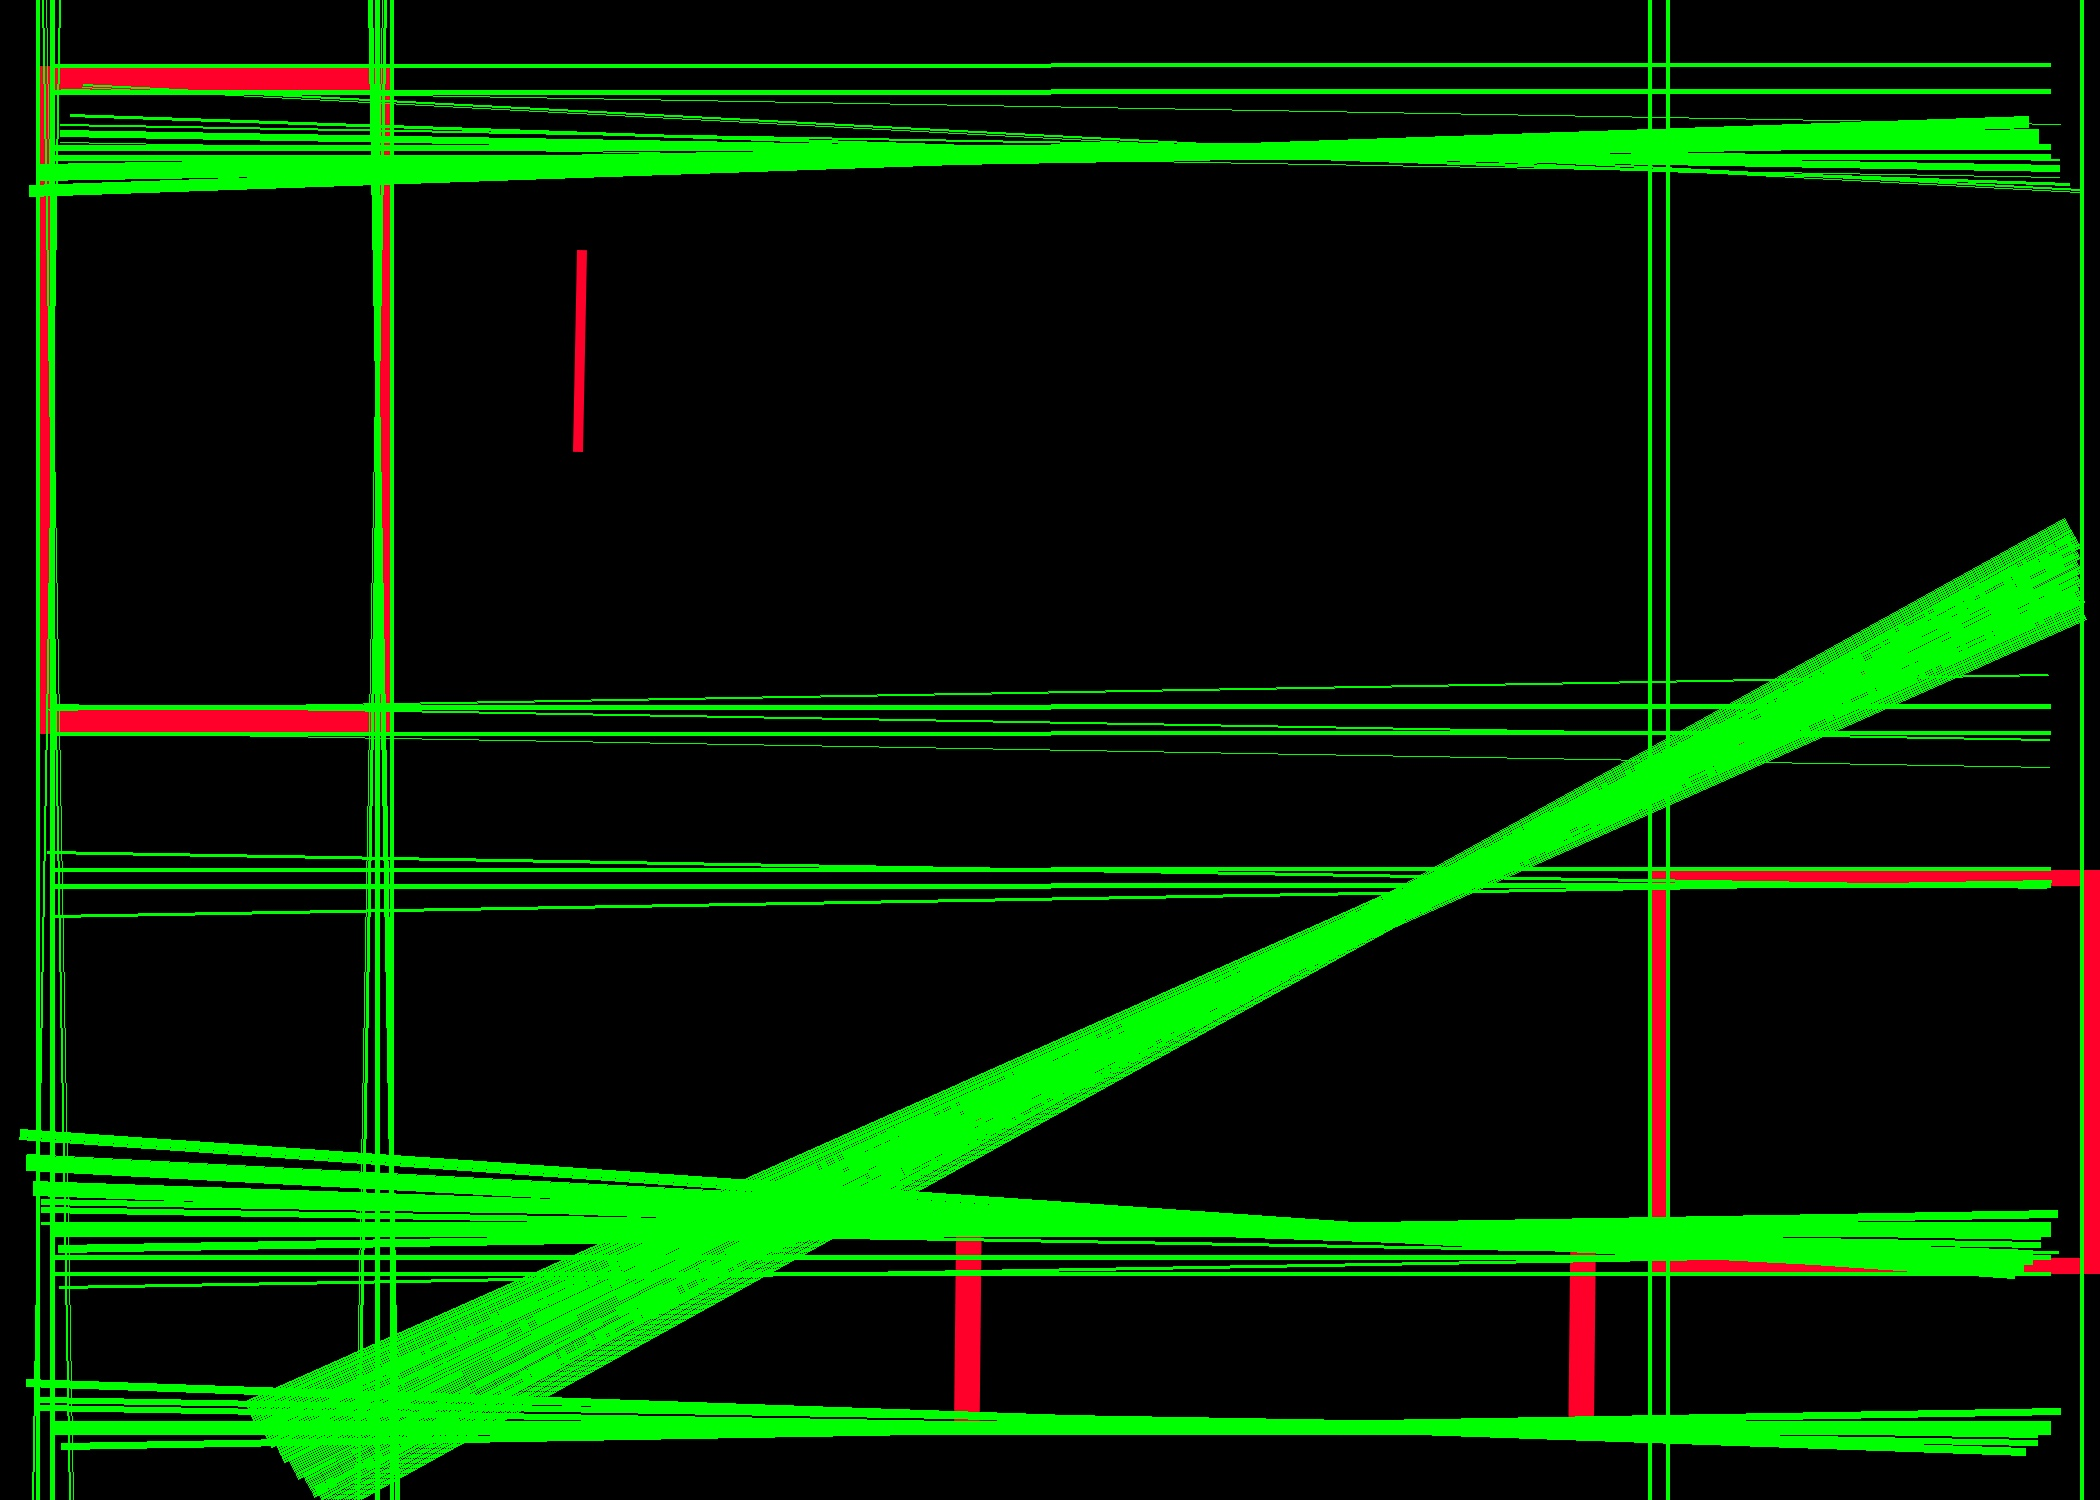
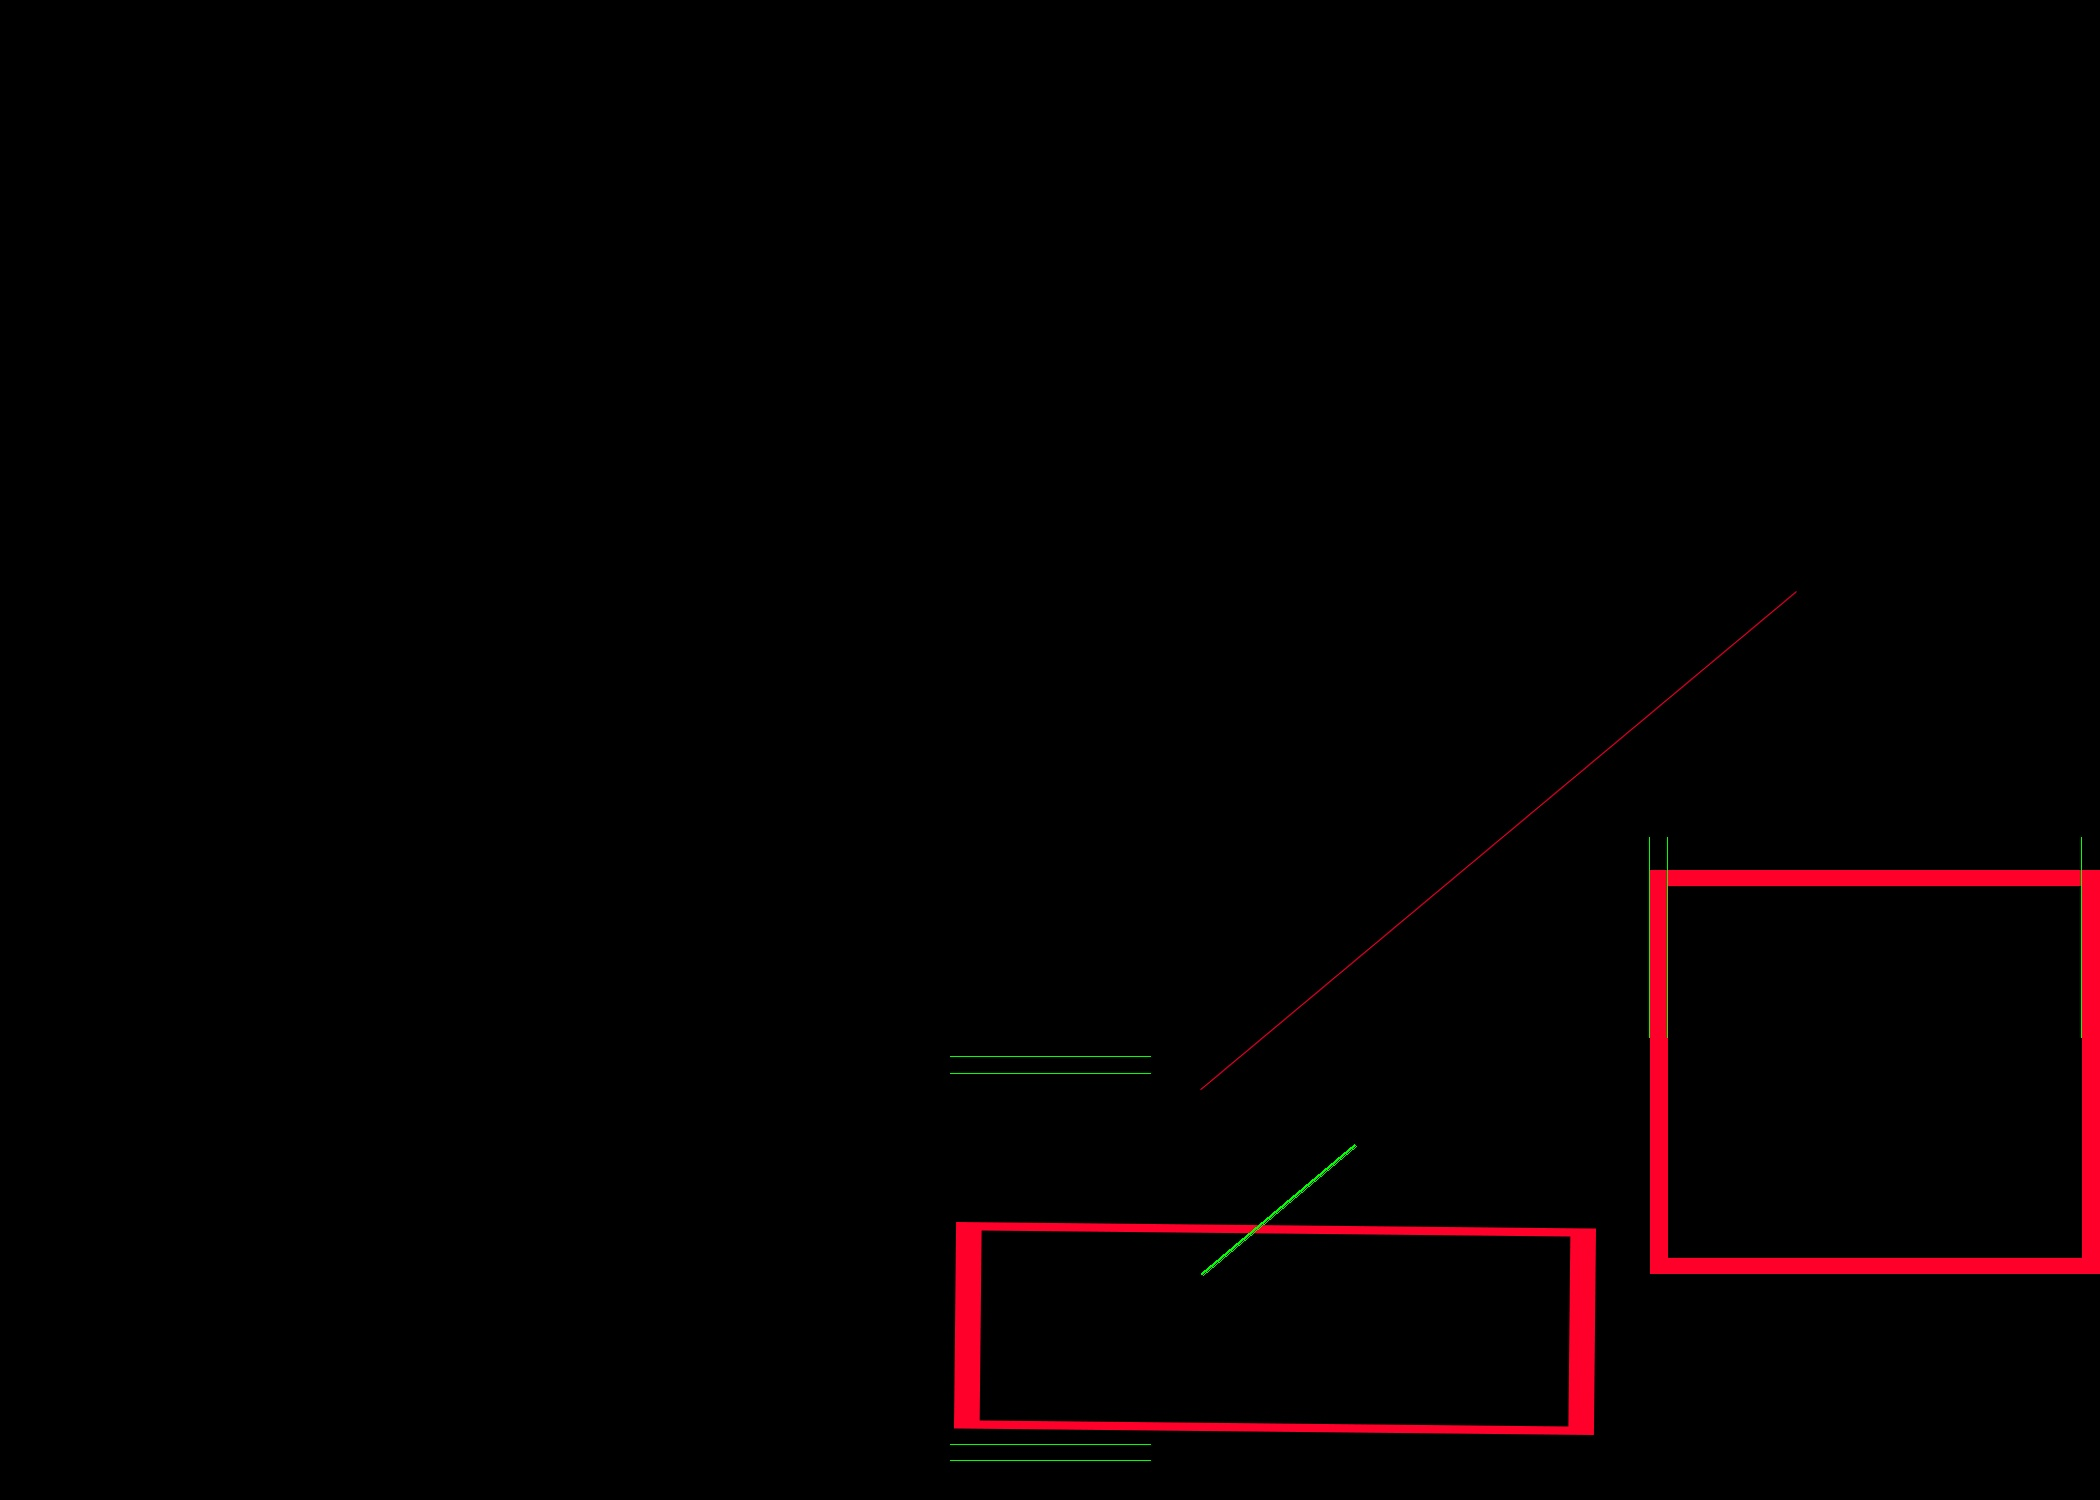
tried canny filter

Changed region(s): [[0.0, 0.0, 1.0, 1.0], [0.2476, 0.184, 0.2786, 0.3067]]

diff --git a/coursework/darts_hough.cpp b/coursework/darts_hough.cpp
@@ -60,6 +60,7 @@ void detectAndDisplay( Mat frame )
     Mat sobel_y;
     Mat sobel_x_converted;
     Mat sobel_y_converted;
+    Mat frame_canny;
     GaussianBlur(frame, frame_gaussian, Size(3, 3), 0, 0, BORDER_DEFAULT);
     cvtColor( frame_gaussian, frame_gray, CV_BGR2GRAY );
     Sobel(frame_gray,sobel_x,CV_16S,1,0,3,1,0,BORDER_DEFAULT);
@@ -67,7 +68,8 @@ void detectAndDisplay( Mat frame )
     convertScaleAbs(sobel_x, sobel_x_converted);
     convertScaleAbs(sobel_y,sobel_y_converted);
     addWeighted(sobel_x_converted, 0.5, sobel_y_converted, 0.5, 0, frame_sobel);
-    imwrite( "sobel.jpg", frame_sobel );
+    Canny(frame, frame_canny, 50, 200, 3);
+    imwrite( "sobel.jpg", frame_canny );
 
     //Applying hough transform and getting points
 
@@ -86,17 +88,20 @@ void detectAndDisplay( Mat frame )
     //updating hough space where edge pixels are present
     //get pixel values int pixelGrayValue = (int)frame_sobel.at<uchar>(y,x);
 
-
+    int highVal=0;
 
     for(int y=0;y<frameHeight;y++){
         for(int x=0;x<frameWidth;x++){
-            if((int)frame_sobel.at<uchar>(y,x)>0){
+            if((int)frame_canny.at<uchar>(y,x)>0){
                 for(int possibleThetas=0;possibleThetas<theta;possibleThetas++){
                     double thetaRadian= possibleThetas*(M_PI/180);
                     int corrospondingRho=(int)(((x-frameWidthMid)*cos(thetaRadian))+((y-frameHeightMid)*sin(thetaRadian)));//removd frameWidthMid
 
                     int RhoIndex=corrospondingRho+frameDiagonal;
                     houghSpace[RhoIndex][possibleThetas]+=1;
+                    if(houghSpace[RhoIndex][possibleThetas]>highVal){
+                        highVal=houghSpace[RhoIndex][possibleThetas];
+                    }
 
                     //if((corrospondingRho>0)&&corrospondingRho<frameDiagonal*2){
 //
@@ -119,7 +124,8 @@ void detectAndDisplay( Mat frame )
         }
     }
 
-    int threshold=300;
+    int threshold=highVal*0.4;
+    std::cout<<highVal<<"\n";
     //find lines from hough space
     for(int y=0;y< houghSpace.size();y++){
         for(int x=0;x<houghSpace[y].size();x++){
@@ -133,10 +139,10 @@ void detectAndDisplay( Mat frame )
                 int x=(a*rho)+frameWidthMid;
                 int y=(b*rho)+frameHeightMid;
                 //get points on line
-                int x1=(int) x+(1000*(-b));//removed 1000's
-                int y1=(int)y+(1000*a);
-                int x2=(int)x-(1000*(-b));
-                int y2=(int)y -(1000*a);
+                int x1=(int) x+(100*(-b));//removed 1000's
+                int y1=(int)y+(100*a);
+                int x2=(int)x-(100*(-b));
+                int y2=(int)y -(100*a);
                 std::vector<int> pointsToAdd;
                 pointsToAdd.push_back(x1);
                 pointsToAdd.push_back(y1);
@@ -151,13 +157,14 @@ void detectAndDisplay( Mat frame )
         Point point1=Point(lineCoordinates[i][0],lineCoordinates[i][1]);
         Point point2=Point(lineCoordinates[i][2],lineCoordinates[i][3]);
         line(frame,point1,point2,Scalar(0,255,0),1);
+        line(frame_canny,point1,point2,Scalar(255,255,255),1);
 
     }
 
 
     //line(frameCopy,Point(10,40),Point(300,350),Scalar(255,0,0),2);
     imwrite( "framelines.jpg", frame );
-    //imwrite( "framefunny.jpg", frameCopy );
+    imwrite( "framelinessobel.jpg", frame_canny);
     Size frame1Size=frame.size();
 
 
